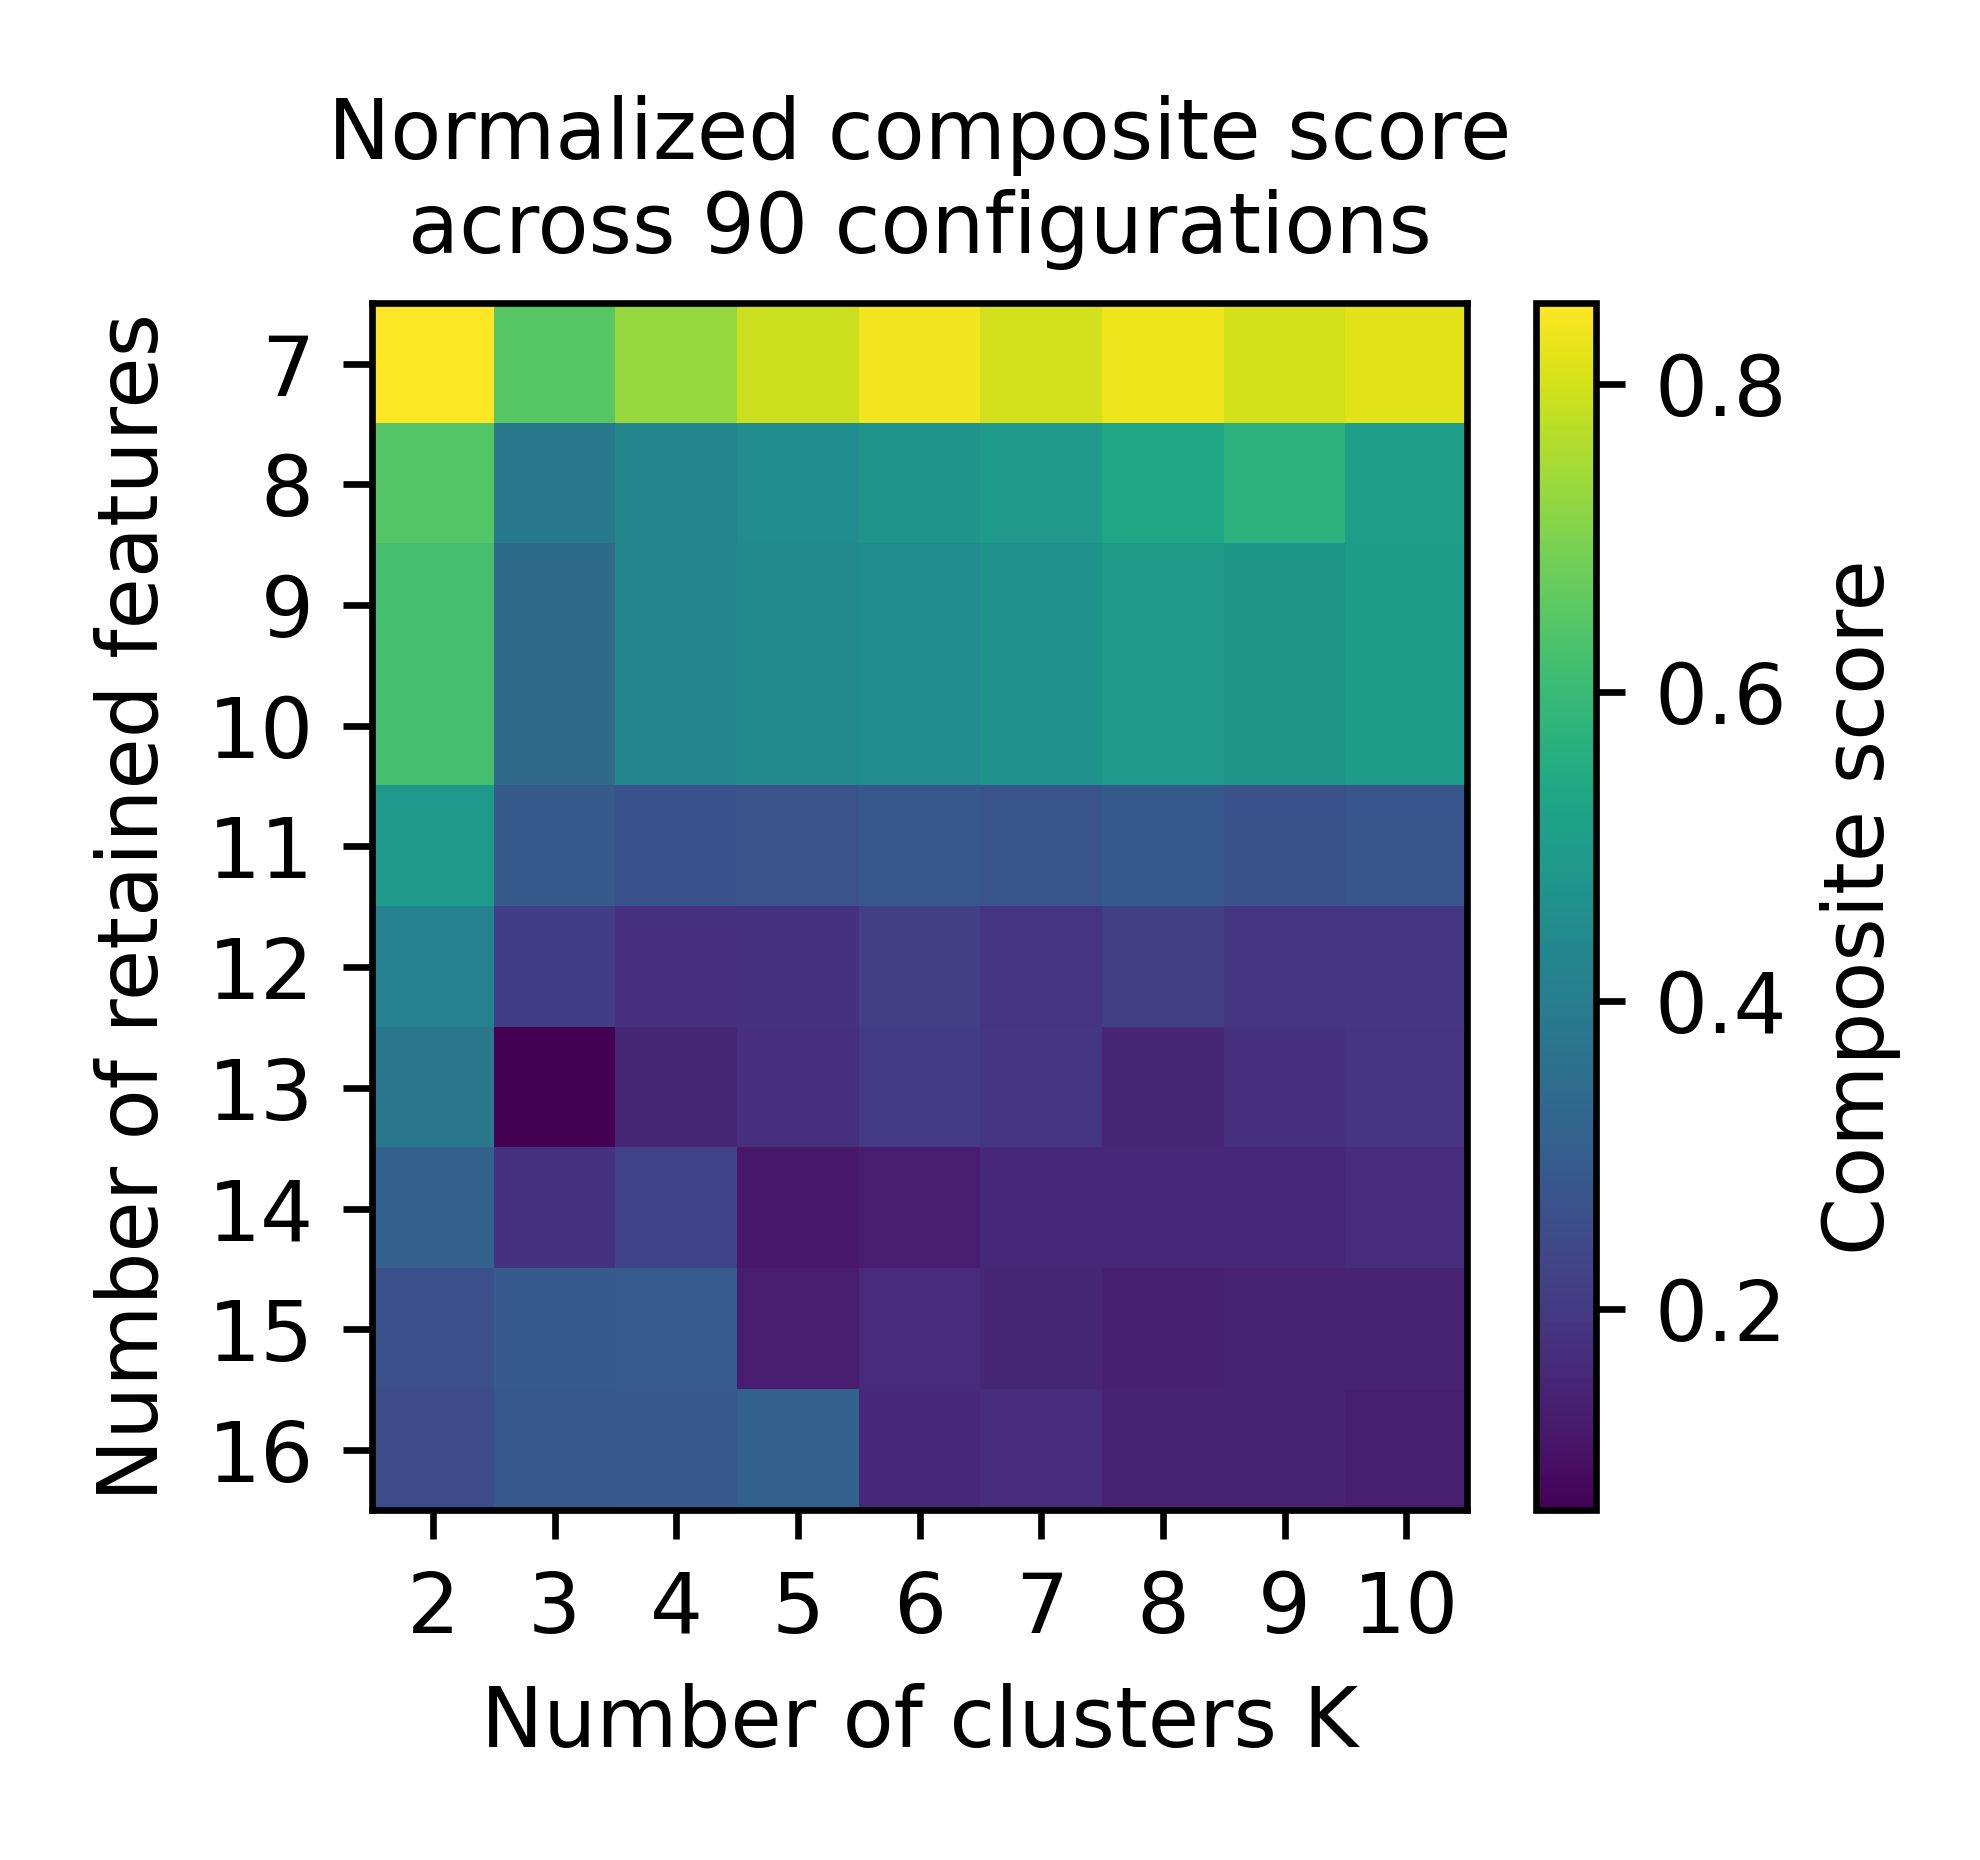
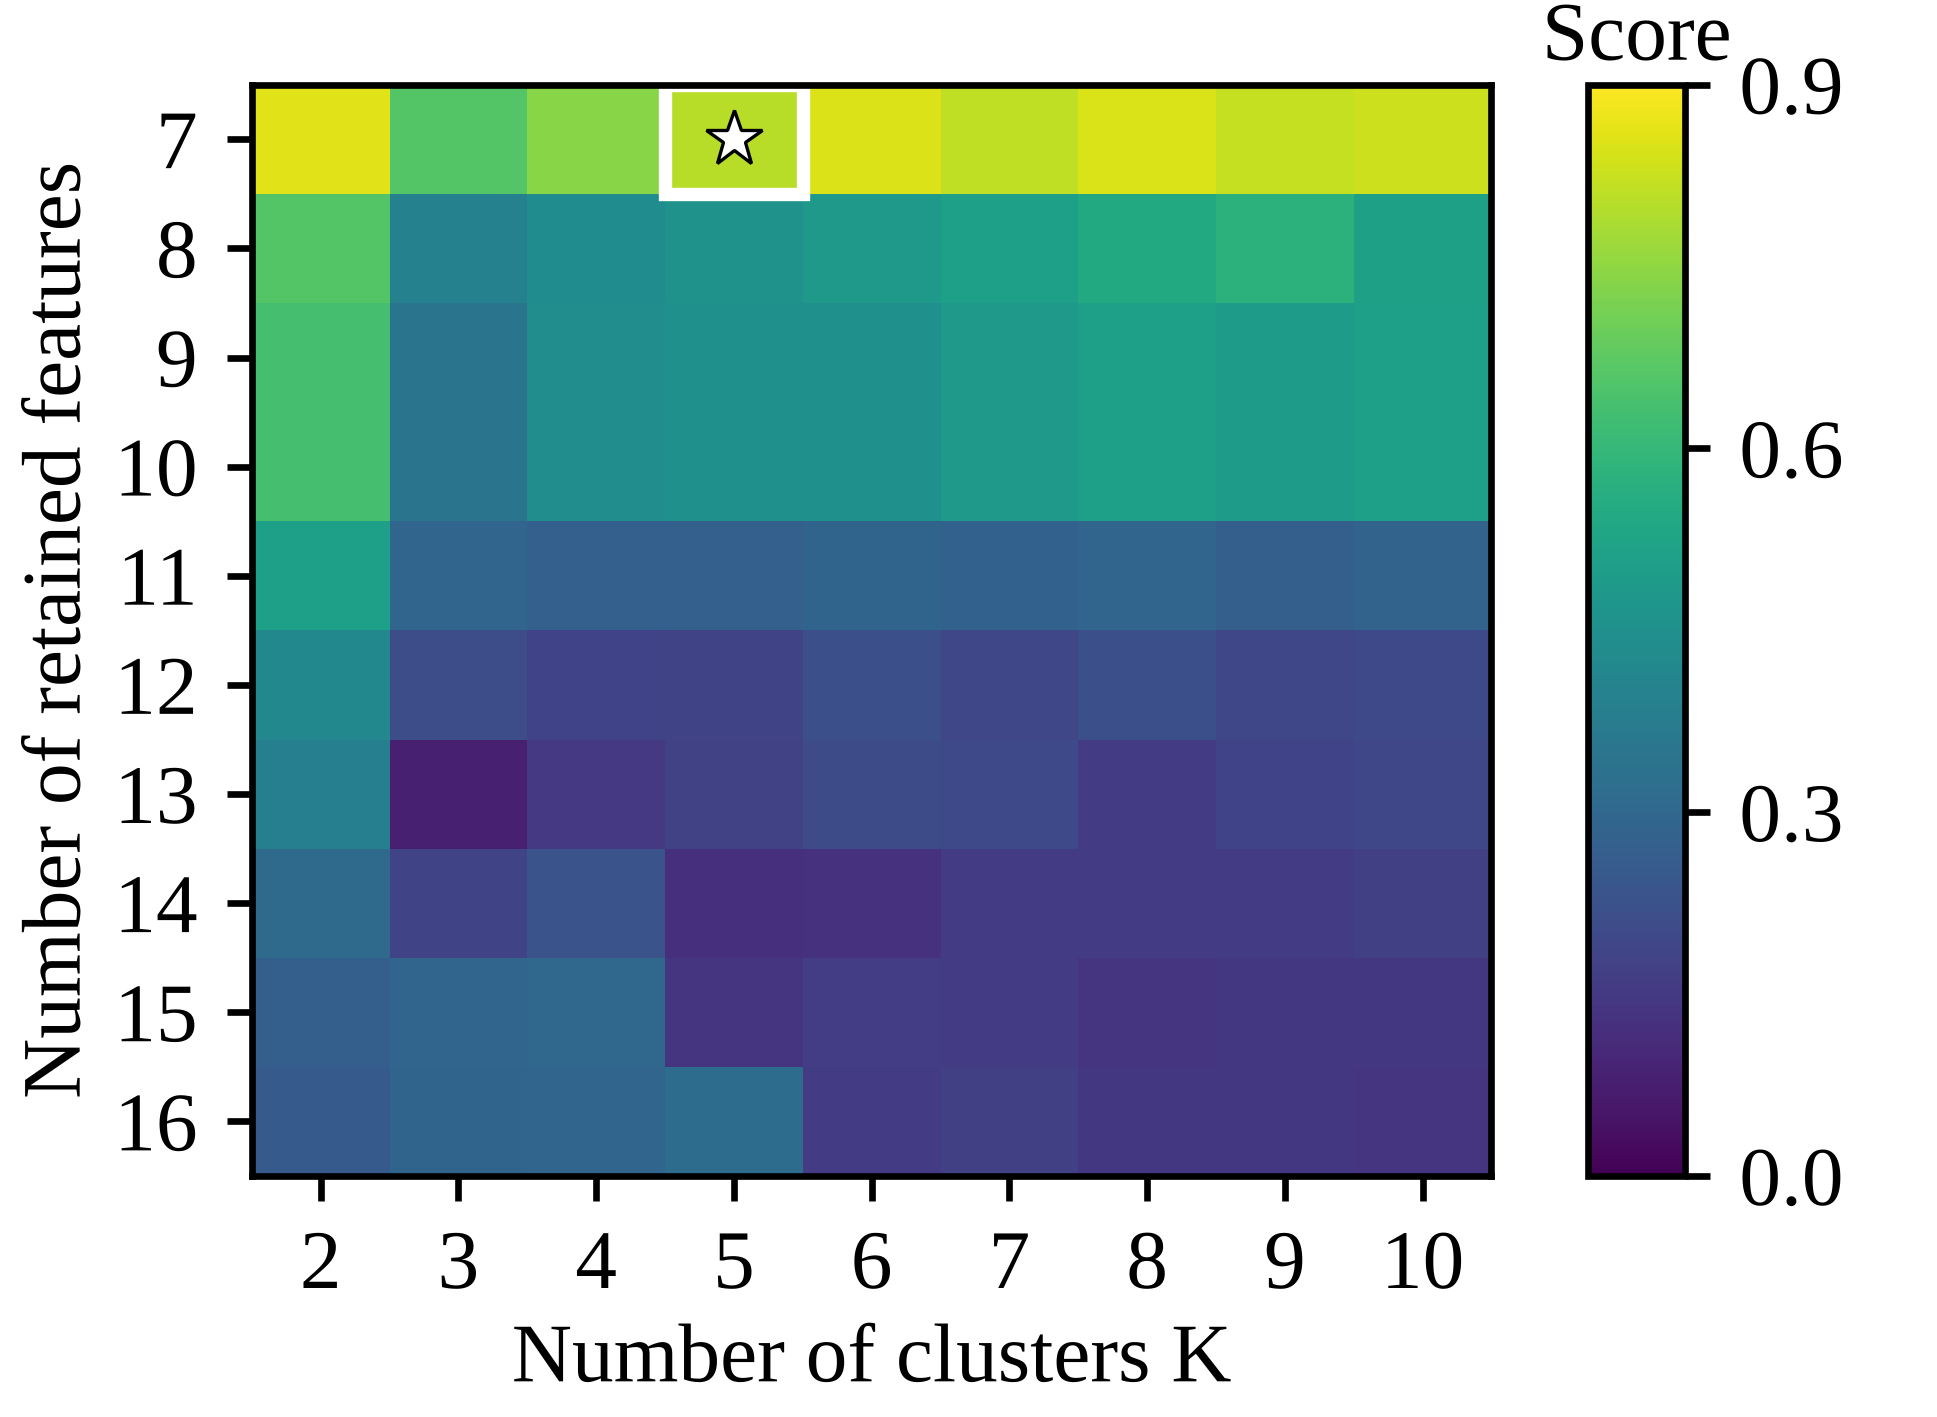
Update figures, seed rules and results-file note in READMEs

diff --git a/README.md b/README.md
@@ -226,12 +226,27 @@ recorded in `params/baseline_params.yaml` and read directly by
 
 ## Random seeds and reproducibility
 
-`src/batik_fahp_topsis/reproducibility.py` centralizes every random seed (`random_state = 42` for
-the deterministic full-data grid; a distinct, recorded seed for each bootstrap repetition).
-`scripts/generate_all_tables.py` is the single authoritative entry point: it calls each stage in
-order from the same `results_90_configs.csv`, so the Pareto status, ranks, selected configuration,
-bootstrap statistics, and every manuscript table are generated automatically from one results file
-rather than transcribed manually between stages.
+`src/batik_fahp_topsis/reproducibility.py` centralizes the random seeds.
+
+- Full-data configuration grid and single full-data fits of the comparison
+  methods: `random_state = 42` (deterministic).
+- The 30 repeated runs / bootstrap resamples form one loop over replicates
+  b = 0, 1, ..., 29. Replicate b uses the seed `42 * 1000 + b` (42000 to 42029)
+  to draw its bootstrap sample and to initialize its K-Means fit.
+- CLARA, FCM and IT2FCM keep `random_state = 42` in every resample; the
+  random seven-feature subsets of the ablation use seed 42, CLARA sample s uses
+  `42 + s`, and the IT2FCM upper-membership fit uses seed 43.
+
+The aggregate 90-configuration results reported in the manuscript are provided
+in `results/results_90_configs_reported.csv` (aggregate metrics only; no
+MSME-level data). The original enterprise-level data and the individual expert
+pairwise-comparison matrices are not distributed.
+
+`scripts/generate_all_tables.py` is the single entry point that calls each stage
+in order from one `results_90_configs.csv`, so the Pareto status, ranks, selected
+configuration, bootstrap statistics, and manuscript tables are generated from one
+results file. Regenerating the reported numbers requires an authorized copy of
+the original data.
 
 ## Notes
 

diff --git a/README.id.md b/README.id.md
@@ -226,12 +226,26 @@ sehingga tidak ada pengaturan baseline yang di-hard-code di script analisis.
 
 ## Seed acak dan reproduksibilitas
 
-`src/batik_fahp_topsis/reproducibility.py` memusatkan setiap seed acak (`random_state = 42` untuk
-grid full-data yang deterministik; seed berbeda dan tercatat untuk setiap repetisi bootstrap).
-`scripts/generate_all_tables.py` adalah satu-satunya titik masuk otoritatif: ia memanggil setiap
-tahap secara berurutan dari `results_90_configs.csv` yang sama, sehingga status Pareto, rank,
-konfigurasi terpilih, statistik bootstrap, dan setiap tabel naskah dihasilkan otomatis dari satu
-file hasil, bukan ditranskripsi manual antar tahap.
+`src/batik_fahp_topsis/reproducibility.py` memusatkan seed acak.
+
+- Grid konfigurasi full-data dan fit tunggal full-data metode pembanding:
+  `random_state = 42` (deterministik).
+- 30 run berulang / resample bootstrap merupakan satu loop atas replikasi
+  b = 0, 1, ..., 29. Replikasi b memakai seed `42 * 1000 + b` (42000 sampai 42029)
+  untuk menarik sampel bootstrap dan menginisialisasi fit K-Means-nya.
+- CLARA, FCM, dan IT2FCM tetap memakai `random_state = 42` di setiap resample;
+  subset acak tujuh fitur pada ablasi memakai seed 42, sampel CLARA ke-s memakai
+  `42 + s`, dan fit membership atas IT2FCM memakai seed 43.
+
+Hasil agregat 90 konfigurasi yang dilaporkan dalam naskah tersedia di
+`results/results_90_configs_reported.csv` (hanya metrik agregat; tanpa data
+tingkat UMKM). Data asli tingkat perusahaan dan matriks perbandingan berpasangan
+masing-masing pakar tidak didistribusikan.
+
+`scripts/generate_all_tables.py` adalah satu titik masuk yang memanggil setiap
+tahap secara berurutan dari satu `results_90_configs.csv`, sehingga status Pareto,
+rank, konfigurasi terpilih, statistik bootstrap, dan tabel naskah dihasilkan dari
+satu file hasil. Mereproduksi angka yang dilaporkan memerlukan salinan resmi data asli.
 
 ## Catatan
 
